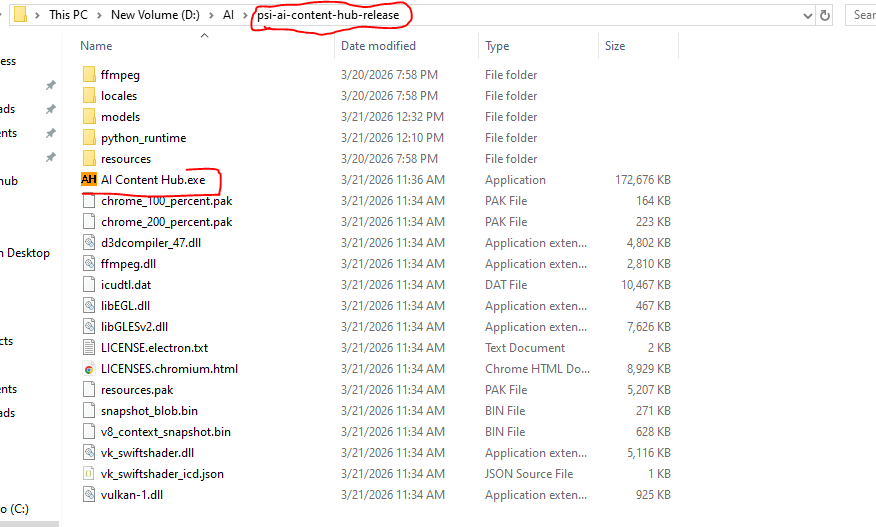
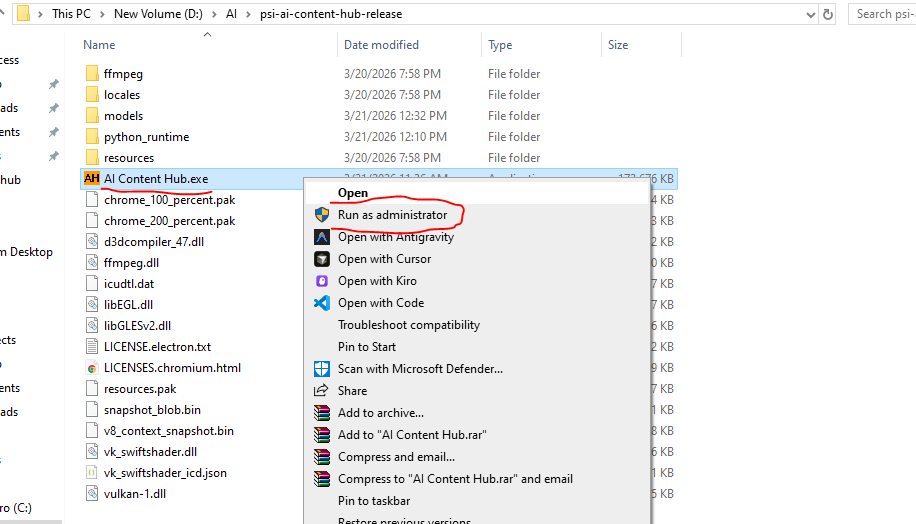
69

diff --git a/src/pages/ContentHubInstallGuide.tsx b/src/pages/ContentHubInstallGuide.tsx
@@ -35,7 +35,7 @@ const steps = [
   {
     number: 3,
     title: 'Mở thư mục và chạy ứng dụng',
-    description: 'Mở thư mục vừa giải nén, nhấn đúp vào file .exe để khởi động ứng dụng.',
+    description: 'Mở thư mục vừa giải nén, click chuột phải vào file "ContentHub.exe" và chọn "Run as administrator" để chạy ứng dụng với quyền quản trị.',
     image: '/assets/docs/contenthub/3.PNG',
   },
   {
